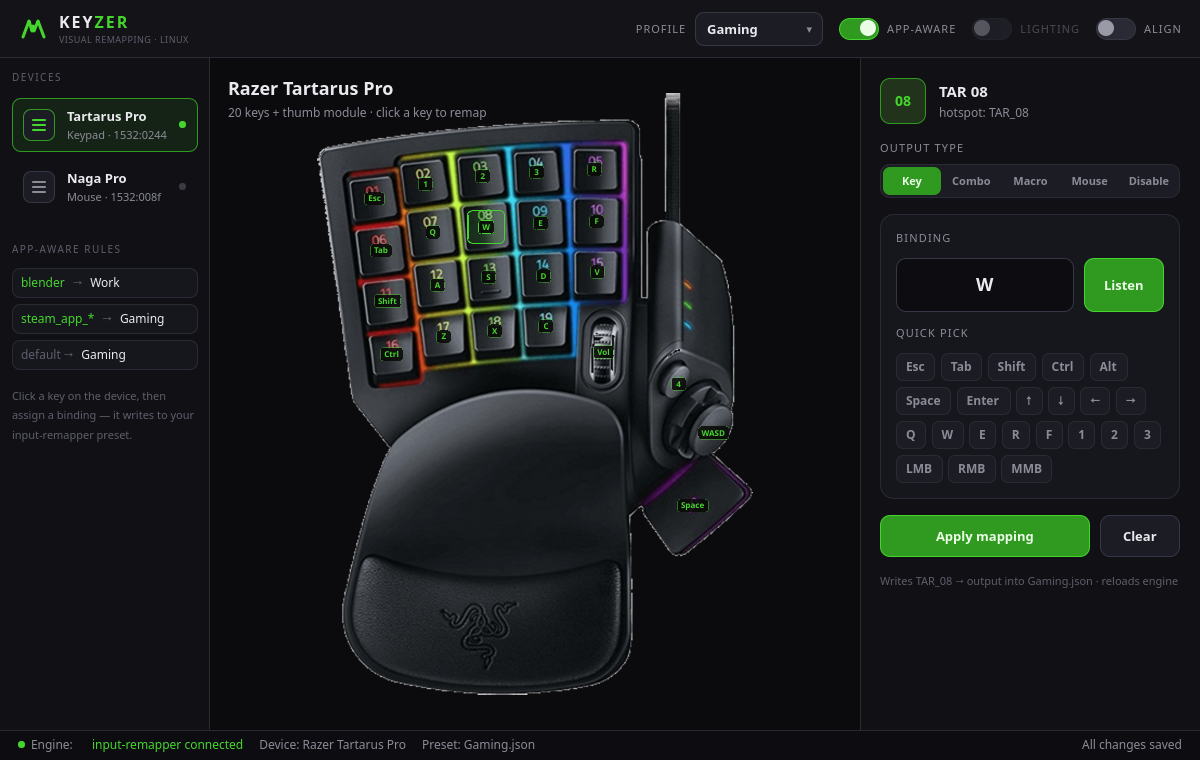
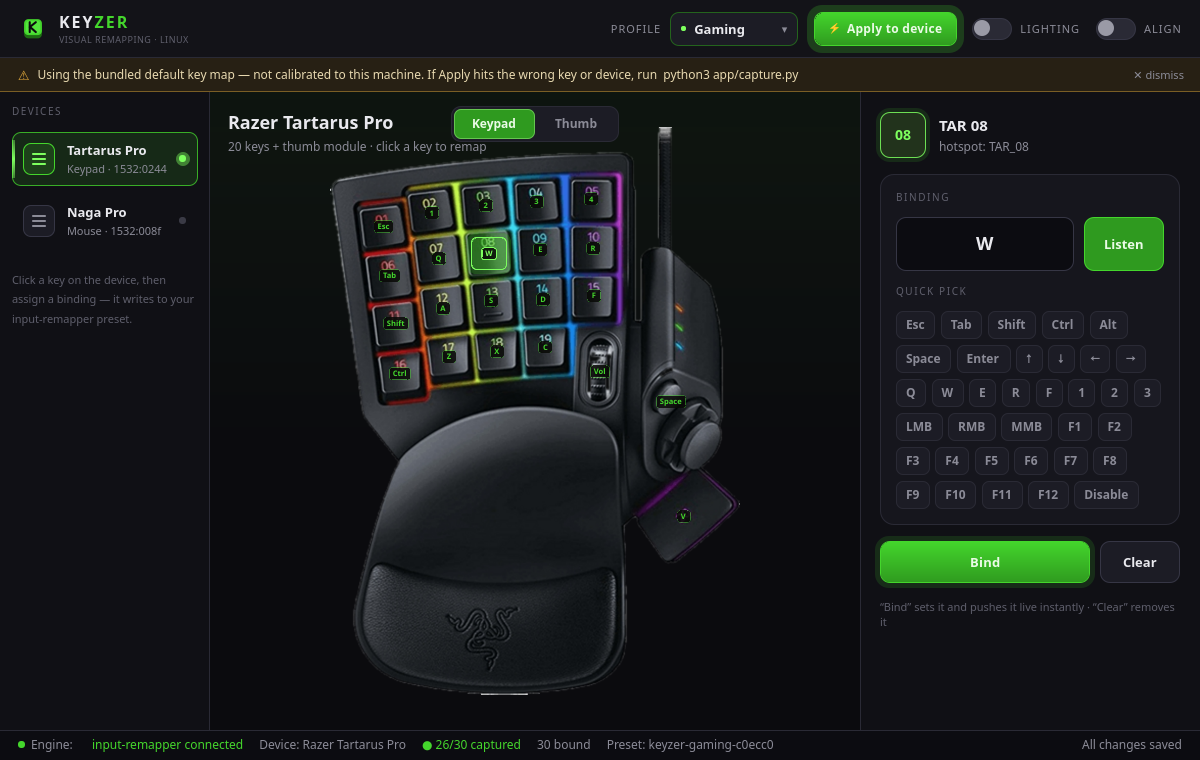
docs: refresh README + add device guides and device-request template
- New screenshots (hero + Naga side + lighting) reflecting the Neon UI and the
  keycap-K logo; the old shot predated the redesign.
- README: badges, a one-line hook, a scannable "why" block, a TL;DR install
  one-liner, a gallery, and an HONEST "KEYZER vs Razer Synapse" table (upfront
  about device breadth, on-board memory, DPI stages, Hypershift, per-app switching,
  and Chroma Studio depth where Synapse wins). Drop the stale app-aware mention.
- SEO/AEO device guides: docs/tartarus-pro-linux.md, docs/naga-pro-linux.md
  (question-shaped headers for "razer tartarus/naga pro linux" intent).
- A device-request issue form (.github/ISSUE_TEMPLATE) — the JSON-only device-add
  is the contributor on-ramp.

diff --git a/docs/naga-pro-linux.md b/docs/naga-pro-linux.md
@@ -1,0 +1,60 @@
+# Razer Naga Pro on Linux — remap the 12 thumb buttons without Synapse
+
+**Short answer:** Razer Synapse isn't available on Linux, but you can still rebind
+the Naga Pro's thumb buttons and main buttons. [KEYZER](../README.md) shows a
+picture of the Naga with clickable buttons and writes your bindings to the
+open-source [input-remapper](https://github.com/sezanzeb/input-remapper) engine.
+
+## Can I use the Razer Naga Pro's 12 side buttons on Linux?
+
+Yes. By default the Naga Pro's thumb grid emits number-row keycodes, which most
+apps ignore as "extra" keys. With KEYZER you click each of the 12 buttons on the
+device picture and bind it to whatever you want — a key, a combo, a macro, or a
+mouse button.
+
+## How do I remap the Naga Pro on Linux?
+
+1. Install `input-remapper` + KEYZER — see the [install guide](../README.md#install).
+2. Open KEYZER, select **Naga Pro**.
+3. Use the **top** view for the left/right click, scroll wheel, and sensitivity
+   buttons; switch to the **side** view for the face-on 12-button thumb grid.
+4. Click a button, pick its output, and **Apply to device** — it's live at once.
+
+Run `python3 app/capture.py` once per machine so KEYZER learns the exact code each
+physical button sends.
+
+## Two views, because a mouse isn't flat
+
+The thumb buttons are on the *side* of the mouse, so they foreshorten badly from
+overhead. KEYZER gives the Naga two views with a toggle — **top** (main buttons,
+wheel, sensitivity) and **side** (the 12-button grid, head-on) — so every button
+is easy to click on the view where it's actually visible.
+
+## What about DPI stages and wheel tilt?
+
+Honest limitations on Linux:
+
+- **DPI / sensitivity** is a hardware function set on the device, not a remap —
+  KEYZER marks those buttons accordingly rather than pretending to bind them. (Use
+  OpenRazer for DPI if you need it.)
+- **Wheel tilt** (left/right) emits no Linux input event on this device — it's
+  handled in Razer's firmware/Synapse — so KEYZER shows it as unavailable instead
+  of silently doing nothing.
+
+## Lighting
+
+With [OpenRazer](https://openrazer.github.io/) installed, KEYZER's Lighting mode
+controls the Naga Pro's colour, brightness, and effects, including its independent
+**logo** and **scroll-wheel** zones. Remapping works fully without OpenRazer.
+
+## Device details
+
+| | |
+|---|---|
+| Device | Razer Naga Pro |
+| USB ID | `1532:008f` |
+| Engine | input-remapper ≥ 2.0 (evdev → uinput) |
+| Tested on | Ubuntu 26.04, Wayland + GNOME |
+
+→ Get started: [KEYZER README](../README.md). Want another Razer device supported?
+It's a single entry in [`layouts.json`](../layouts.json) — PRs welcome.

diff --git a/README.md b/README.md
@@ -2,11 +2,26 @@
   <img src="docs/keyzer-wordmark.png" alt="KEYZER" width="300">
 </p>
 
-**A visual key-remapper for Razer peripherals on Linux** — click your device's keys on a picture of the device and bind them, Synapse-style, on top of the open-source [input-remapper](https://github.com/sezanzeb/input-remapper) engine.
+<p align="center">
+  <img src="https://img.shields.io/badge/platform-Linux-44d62c" alt="Linux">
+  <img src="https://img.shields.io/badge/license-MIT-44d62c" alt="MIT licensed">
+  <img src="https://img.shields.io/badge/engine-input--remapper-2f9a1f" alt="Built on input-remapper">
+  <img src="https://img.shields.io/badge/Wayland-ready-2f9a1f" alt="Wayland ready">
+  <img src="https://img.shields.io/badge/telemetry-none-2f9a1f" alt="No telemetry">
+</p>
 
-Razer Synapse doesn't exist on Linux, and input-remapper's stock editor makes you map raw event codes by hand. KEYZER gives you the workflow you actually want: see your real device, click a key, pick a binding.
+<p align="center"><b>The Razer Synapse experience Linux never had — click your device, set a key.</b></p>
 
-![KEYZER](docs/screenshots/keyzer.png)
+![KEYZER — click a key on a picture of your device and bind it](docs/screenshots/keyzer.png)
+
+> Razer Synapse doesn't run on Linux, and [input-remapper](https://github.com/sezanzeb/input-remapper)'s stock editor makes you map raw event codes by hand. **KEYZER gives you the workflow you actually want: see your real device, click a key, pick a binding.** Free, open source, no account, no telemetry.
+
+<table>
+  <tr>
+    <td width="50%"><img src="docs/screenshots/naga.png" alt="Naga Pro side view"><br><sub><b>Naga Pro</b> — the 12-button thumb grid, face-on</sub></td>
+    <td width="50%"><img src="docs/screenshots/lighting.png" alt="Per-zone Chroma lighting"><br><sub><b>Lighting</b> — per-zone Chroma effects + a full colour wheel</sub></td>
+  </tr>
+</table>
 
 ## Supported devices
 
@@ -17,9 +32,42 @@ Razer Synapse doesn't exist on Linux, and input-remapper's stock editor makes yo
 
 Adding a device is just an entry in [`layouts.json`](layouts.json) — no code change. PRs welcome for more Razer gear.
 
+## KEYZER vs Razer Synapse
+
+KEYZER isn't trying to out-feature Synapse — it fills the gap Synapse leaves on
+Linux, where Synapse simply doesn't run. Here's the honest picture, including where
+Synapse is more capable:
+
+| | KEYZER | Razer Synapse |
+|---|---|---|
+| **Runs on Linux** | ✅ Yes (Wayland + X11) | ❌ Windows / macOS only |
+| **Price & account** | ✅ Free, open source, no account | Free, but requires a Razer account |
+| **Telemetry** | ✅ None | ❌ Collects usage data |
+| **Click-the-device remapping** | ✅ Yes | ✅ Yes |
+| **Key / combo / mouse-button bindings** | ✅ Yes | ✅ Yes |
+| **Macros** | ⚠️ Basic chords (full macros via input-remapper presets) | ✅ Full recorder with timing |
+| **Profiles** | ✅ Yes — plain JSON, import/export, version-control friendly | ✅ Yes — with cloud sync |
+| **Per-app / per-game auto-switch** | ❌ Not yet ([roadmap](#roadmap)) | ✅ Yes |
+| **RGB / Chroma lighting** | ⚠️ Per-zone colour, brightness & effects (needs OpenRazer) | ✅ Full Chroma Studio (per-key, animations, app sync) |
+| **DPI / sensitivity stages** | ❌ No (a hardware function) | ✅ Yes |
+| **Hypershift / second layer** | ❌ No | ✅ Yes |
+| **On-board memory (profile saved on the device)** | ❌ No — applies live through the OS, so it works system-wide | ✅ Yes — travels with the device |
+| **Supported devices** | ⚠️ Tartarus Pro + Naga Pro (more via a JSON entry) | ✅ The full Razer lineup |
+| **Support** | Community / unofficial | Official (Razer) |
+
+**The takeaway:** if you're on Windows, use Synapse. If you're on Linux and want
+your Razer keypad or mouse to actually be remappable — with a UI instead of raw
+event codes — that's what KEYZER is for.
+
 ## Install
 
 KEYZER needs two things, both packaged on Ubuntu/Debian: the **input-remapper** engine and **PySide6** (the Qt6 UI). OpenRazer is **optional** (lighting only).
+
+**TL;DR** (Ubuntu/Debian) — clone, run the installer, launch:
+
+```bash
+git clone https://github.com/<you>/keyzer.git && cd keyzer && ./install.sh && python3 app/main.py
+```
 
 ### Ubuntu / Debian (recommended)
 
@@ -76,7 +124,7 @@ KEYZER is a friendly front-end; the remapping is done by a proven engine.
 ```
 ┌─ KEYZER (this app) ───────────────────────────────────┐
 │ device image + clickable hotspots (from layouts.json) │
-│ assign panel · profiles · app-aware · lighting        │
+│ assign panel · profiles · views · lighting            │
 │            │ writes preset JSON / drives the daemon    │
 └────────────▼──────────────────────────────────────────┘
 ┌─ input-remapper (engine) ─────────────────────────────┐

diff --git a/docs/tartarus-pro-linux.md b/docs/tartarus-pro-linux.md
@@ -1,0 +1,54 @@
+# Razer Tartarus Pro on Linux — remap keys the way Synapse does
+
+**Short answer:** Razer Synapse doesn't run on Linux, but you can still remap every
+key on a Razer Tartarus Pro. [KEYZER](../README.md) gives you a Synapse-style
+visual editor — a picture of the Tartarus with clickable keys — on top of the
+open-source [input-remapper](https://github.com/sezanzeb/input-remapper) engine.
+
+## Does Razer Synapse work on Linux?
+
+No. Razer Synapse is Windows/macOS only, and there's no official Linux build or
+cloud version. Your Tartarus Pro still *works* as a generic keypad on Linux, but
+its keys emit fixed codes and you can't rebind them through Razer's software.
+
+## How do I remap a Razer Tartarus Pro on Linux?
+
+1. Install `input-remapper` (the remapping engine) and KEYZER (the UI) — see the
+   [install guide](../README.md#install).
+2. Run KEYZER, pick **Tartarus Pro** in the device list.
+3. Click any key on the picture, then choose what it should do — a key, a combo
+   (Ctrl+1), a macro, a mouse button, or *disable* it.
+4. Hit **Apply to device**. Your binding is live immediately.
+
+The first time on a new machine, run `python3 app/capture.py` once: it records the
+real evdev code each physical key emits so the bindings land on the right keys.
+
+## What about the 20 keys, the thumb pad, and the scroll wheel?
+
+KEYZER models the full Tartarus Pro:
+
+- **All 20 keys** (rows 1–4 plus the right column and the big thumb key), each a
+  clickable hotspot on the device image.
+- **The 8-way thumb pad** — a dedicated *Thumb* view with true 8-direction support
+  (the diagonals are built from input-remapper combination mappings, so a diagonal
+  can fire its own binding instead of just the two cardinals).
+- **The scroll wheel** click.
+
+## Is the lighting (Chroma) controllable too?
+
+Yes, optionally. With [OpenRazer](https://openrazer.github.io/) installed, KEYZER's
+Lighting mode sets the Tartarus Pro's colour, brightness, and effects (Solid,
+Pulse, Rainbow, React, Wave). Without OpenRazer, remapping still works fully and
+the Lighting toggle simply stays off.
+
+## Device details
+
+| | |
+|---|---|
+| Device | Razer Tartarus Pro |
+| USB ID | `1532:0244` |
+| Engine | input-remapper ≥ 2.0 (evdev → uinput) |
+| Tested on | Ubuntu 26.04, Wayland + GNOME |
+
+→ Get started: [KEYZER README](../README.md). Have a different Razer device?
+Adding one is a single entry in [`layouts.json`](../layouts.json) — PRs welcome.